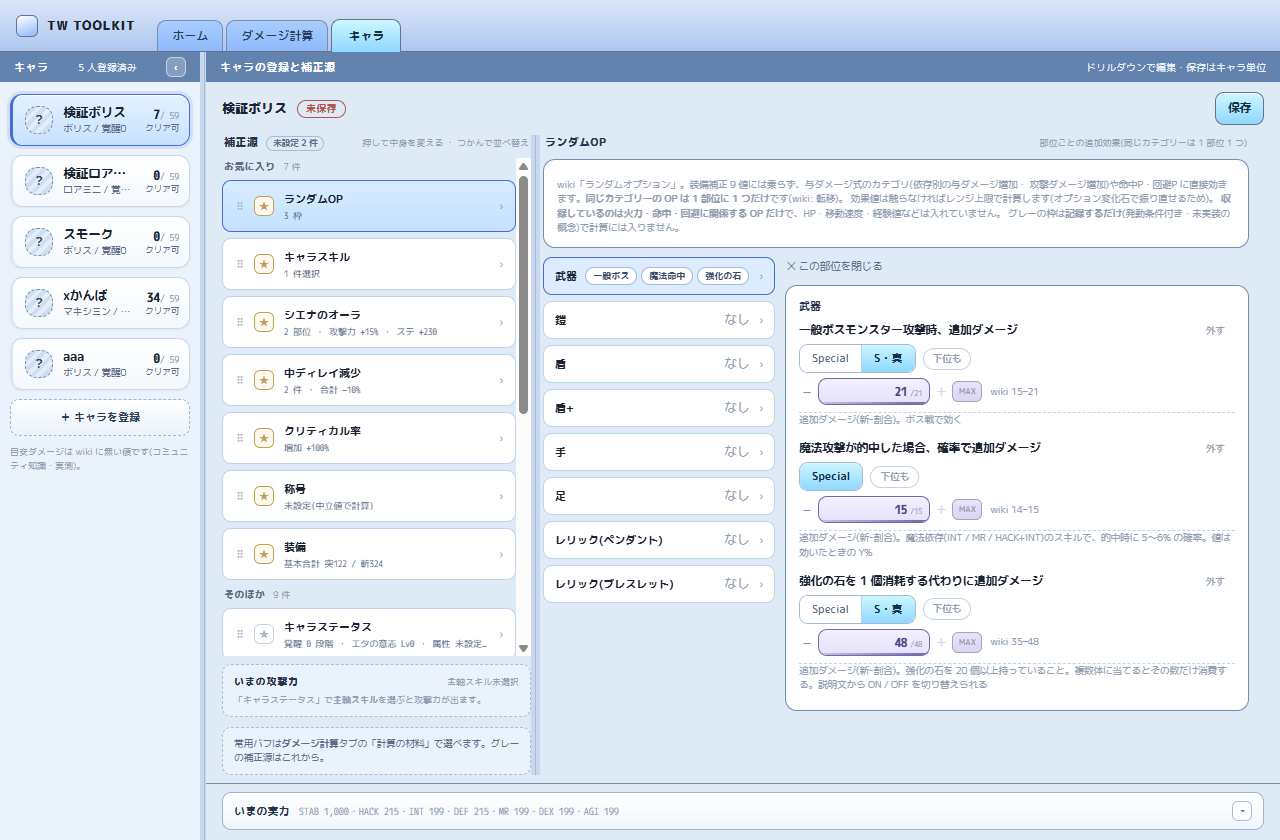
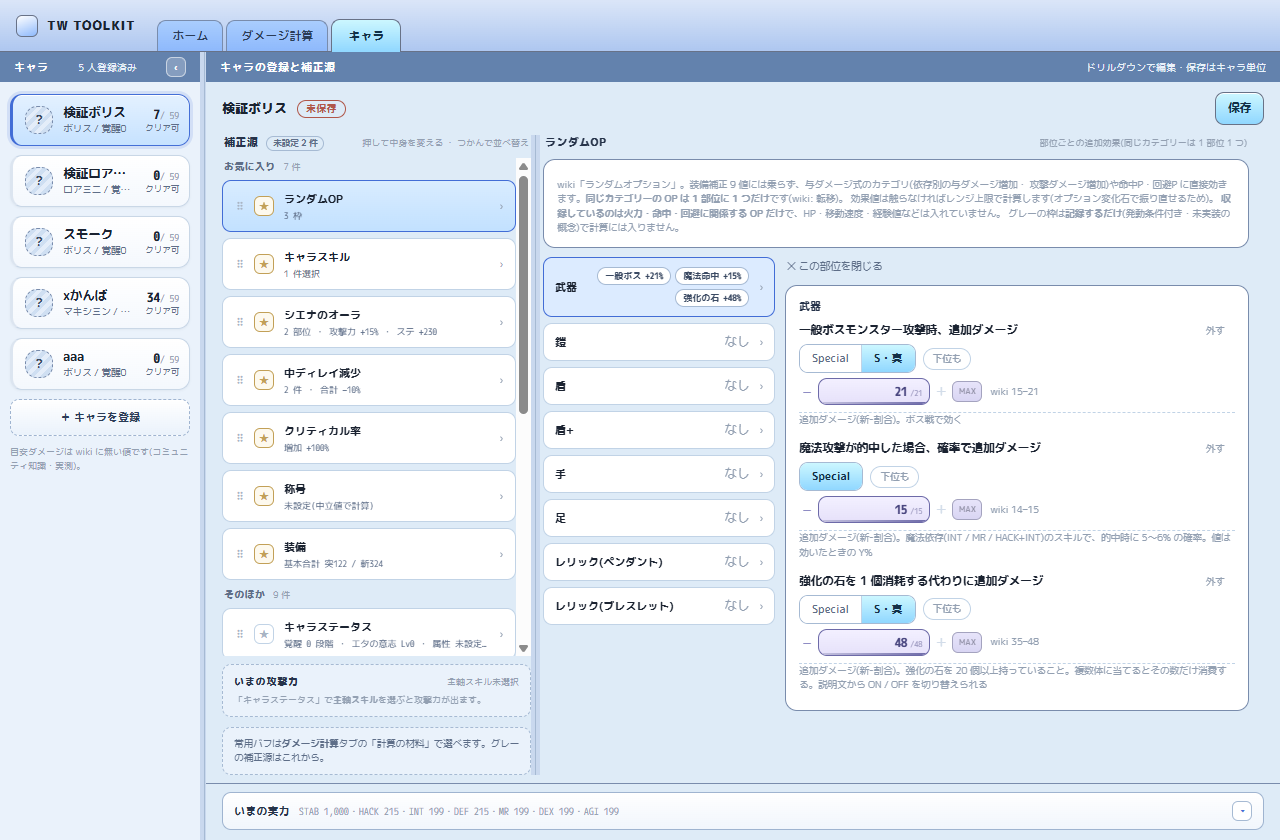
feat(ui): OP のバッジに値まで出す
開かないと分からないなら、行を見た意味がない(§00 05)。
バッジを「一般ボス +21%」「魔法命中 +15%」「強化の石 +48%」の形にする。

単位は効き先で変える — 割合は %、命中P / 回避P は実数、中ディレイは減る側なので −。
ついでに TS の効き先の型に `actual_delay_reduction`(カフスの中ディレイ)が抜けていたのを直した。

Claude-Session: https://claude.ai/code/session_01JvRWxU3ohwNNHW2hQatCCP

Changed region(s): [[0.4062, 0.3095, 0.625, 0.7429]]

diff --git a/apps/desktop/src/pages/chars/SourcePane.svelte b/apps/desktop/src/pages/chars/SourcePane.svelte
@@ -32,7 +32,7 @@
   import {
     clampToCaps, coreBonus, coreSetEffect, coreSetSupportValues, coreSetTotalBonus, midpointValues,
     neutralEquipmentPart, neutralSienaAura, randomOptionEffectLabel, randomOptionIsApplied,
-    randomOptionValue, rangeSummary, sienaPartStatTotal, valuesSummary,
+    randomOptionValue, randomOptionValueLabel, rangeSummary, sienaPartStatTotal, valuesSummary,
   } from "../../equipment";
   import { fmtInt, formatLayerValue } from "../../format";
   import {
@@ -1568,8 +1568,14 @@
                 {#each draft.equipment.parts[slot].random_options as o (o.option_id)}
                   {@const def = randomOptionDef(o.option_id)}
                   {#if def}
-                    <span class="ro-badge" class:record-only={!randomOptionIsApplied(def.effect)} title={def.name}>
+                    <!-- 値まで出す。開かないと分からないと、行を見た意味がない(§00 05) -->
+                    <span
+                      class="ro-badge"
+                      class:record-only={!randomOptionIsApplied(def.effect)}
+                      title="{def.name}({randomOptionEffectLabel(def.effect)})"
+                    >
                       {def.short}
+                      <b class="num">{randomOptionValueLabel(o, def)}</b>
                     </span>
                   {/if}
                 {/each}
@@ -2457,6 +2463,7 @@
     min-width: 0; display: flex; flex-wrap: wrap; justify-content: flex-end; gap: 4px;
   }
   .ro-badge {
+    display: inline-flex; align-items: baseline; gap: 4px;
     padding: 1px 7px; border-radius: var(--r-pill);
     background: var(--bg-field); border: 1px solid var(--border); color: var(--fg-sub);
     font-size: 9px; font-weight: 700; white-space: nowrap;

diff --git a/apps/desktop/src/equipment.ts b/apps/desktop/src/equipment.ts
@@ -260,6 +260,27 @@ export const sienaStatTotal = (equipment: Equipment): number =>
 export const randomOptionValue = (slot: RandomOptionSlot, def: RandomOptionDef): number =>
   slot.value ?? (def.tiers.find((t) => t.rank === slot.rank)?.max ?? 0);
 
+/**
+ * 一覧のバッジに出す値。効き先で単位が違う —
+ * 割合(与ダメージ増加・攻撃ダメージ・追加ダメージ・耐性)は `%`、命中P/回避P は実数、
+ * 中ディレイは減る側なので `−`。
+ */
+export const randomOptionValueLabel = (slot: RandomOptionSlot, def: RandomOptionDef): string => {
+  const value = randomOptionValue(slot, def);
+  const effect = def.effect;
+  if (typeof effect === "object") return `+${value}%`;
+  switch (effect) {
+    case "accuracy_point":
+    case "evasion_point":
+    case "accuracy_and_evasion_point":
+      return `+${value}`;
+    case "actual_delay_reduction":
+      return `−${value}%`;
+    default:
+      return `+${value}%`;
+  }
+};
+
 /** 効き先の表示名。「記録するだけ」の OP はそう分かる文言にする。 */
 export const randomOptionEffectLabel = (effect: RandomOptionEffect): string => {
   if (typeof effect === "object") {
@@ -271,6 +292,7 @@ export const randomOptionEffectLabel = (effect: RandomOptionEffect): string => {
     case "accuracy_point": return "命中P";
     case "evasion_point": return "回避P";
     case "accuracy_and_evasion_point": return "命中P・回避P";
+    case "actual_delay_reduction": return "中ディレイ減少";
     case "record_only": return "記録するだけ(計算に入りません)";
   }
 };

diff --git a/apps/desktop/src/api/types.ts b/apps/desktop/src/api/types.ts
@@ -309,6 +309,7 @@ export type RandomOptionEffect =
   | "accuracy_point"
   | "evasion_point"
   | "accuracy_and_evasion_point"
+  | "actual_delay_reduction"
   | "record_only";
 
 // ランクごとの効果値レンジ。crates/domain/src/random_option.rs の RandomOptionTier。
